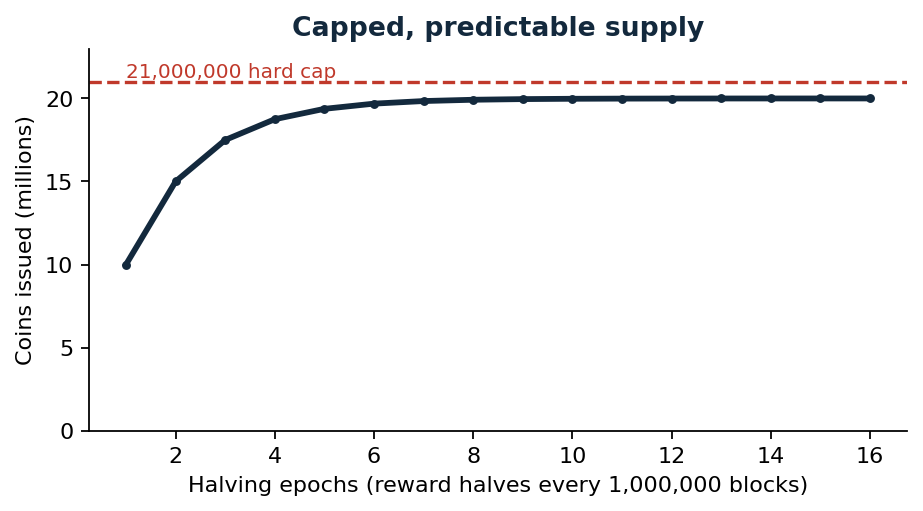
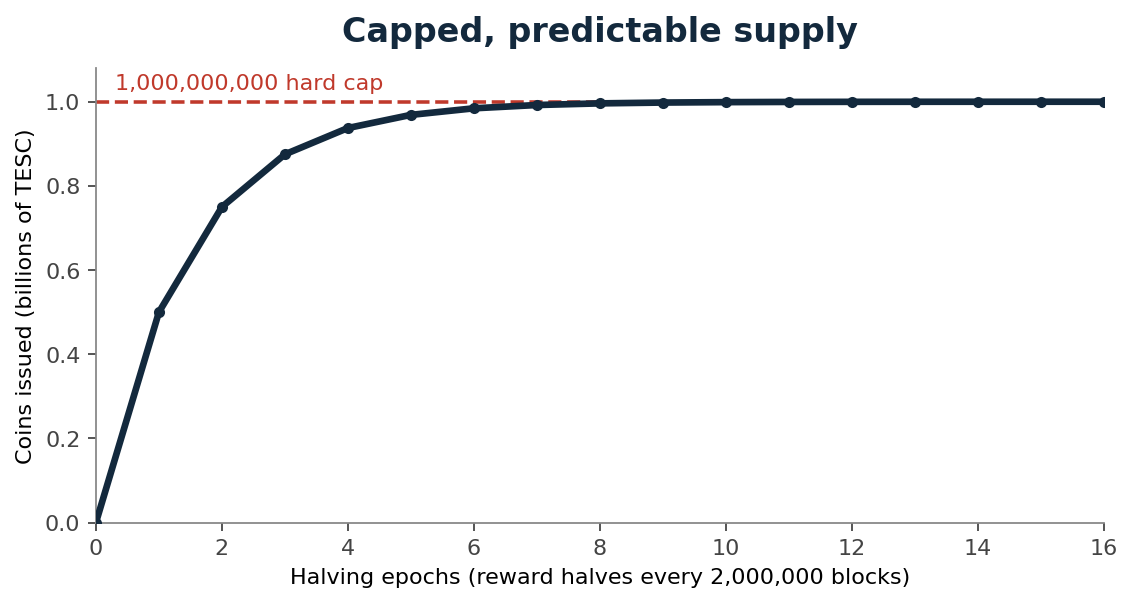
fix: changer max supply to 1 billion and initial block reward to 250 TESC

diff --git a/docs/DESIGN.md b/docs/DESIGN.md
@@ -119,16 +119,16 @@ The reward split is enforced at block construction time: `_mine_block` builds th
 
 | Parameter | Value |
 |---|---|
-| Maximum supply | 21,000,000 TESC |
-| Initial block reward | 5 TESC |
+| Maximum supply | 1,000,000,000 TESC |
+| Initial block reward | 250 TESC |
 | Halving interval | 2,000,000 blocks |
 | Target block time | 60 seconds |
 | Difficulty adjustment | Every 2,016 blocks |
-| Divisibility | 8 decimal places (2.1 quadrillion base units) |
-| Fee rate (floor) | 0.00001 TESC per kB (1 tile/B, Bitcoin minrelay parity) |
+| Divisibility | 8 decimal places (10¹⁷ base units) |
+| Fee rate (floor) | 0.0005 TESC per kB (50 tiles/B) |
 | Max transactions per block | 100 |
 
-The 8-decimal divisibility (giving 2.1 × 10¹⁵ base units) ensures sufficient granularity
+The 8-decimal divisibility (giving 10¹⁷ base units) ensures sufficient granularity
 for micropayments, IoT settlement, and cross-border remittance without impractical per-unit
 costs at higher valuations.
 
@@ -142,8 +142,8 @@ per-block controller:
 - **Pledge auto-tapers with the subsidy.** Maximum pledge is 10% of the block
   reward, and the reward halves every 2,000,000 blocks, so the pledge ceiling
   falls in step with the subsidy automatically — no tuning required.
-- **The fee floor is a static anti-spam minimum** (1 tile/B, Bitcoin minrelay
-  parity). Actual miner fee revenue comes from the **market tips** users pay
+- **The fee floor is a static anti-spam minimum** (50 tiles/B, scaled with the
+  reward). Actual miner fee revenue comes from the **market tips** users pay
   above the floor, which grow with adoption and congestion — this is what
   supplements the declining subsidy, the same mechanism Bitcoin relies on.
 

diff --git a/README.md b/README.md
@@ -43,10 +43,10 @@ of control, and a public, tamper-evident record everyone can audit.
   governed, on-chain process — software-style releases, not community schisms.
 - **Storage that scales down to your device.** Nodes can run light or share the
   load of history, so participation never demands a data centre.
-- **Predictable, capped supply.** A fixed supply of 21,000,000 on a predictable
+- **Predictable, capped supply.** A fixed supply of 1,000,000,000 on a predictable
   schedule — and 60-second blocks.
 
-<p align="center"><img src="assets/supply.png" alt="Capped, predictable supply approaching a 21,000,000 hard cap" width="640"></p>
+<p align="center"><img src="assets/supply.png" alt="Capped, predictable supply approaching a 1,000,000,000 hard cap" width="640"></p>
 
 ## What you can build on it
 
